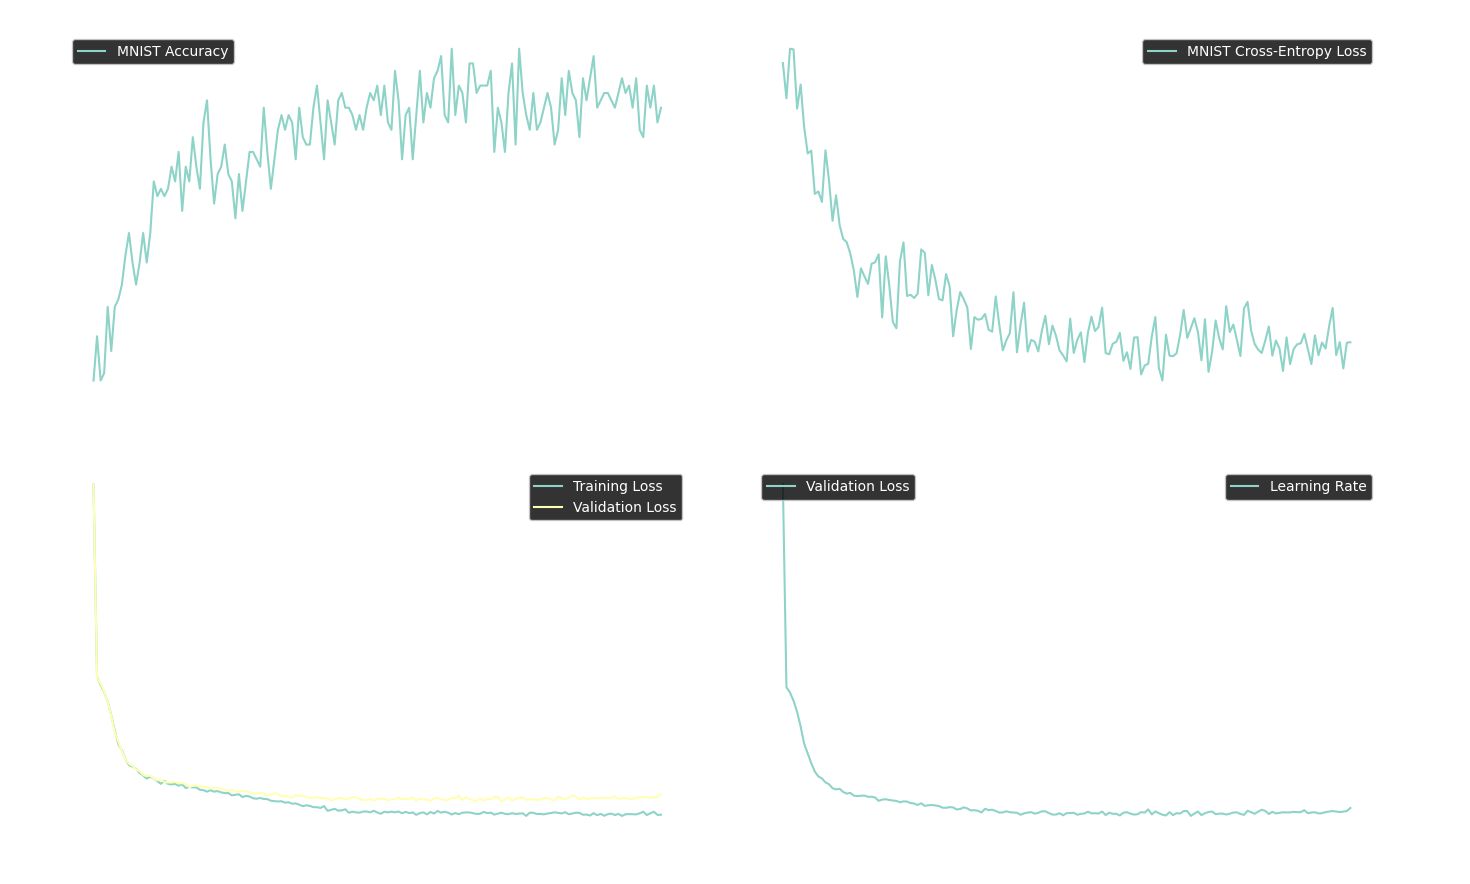
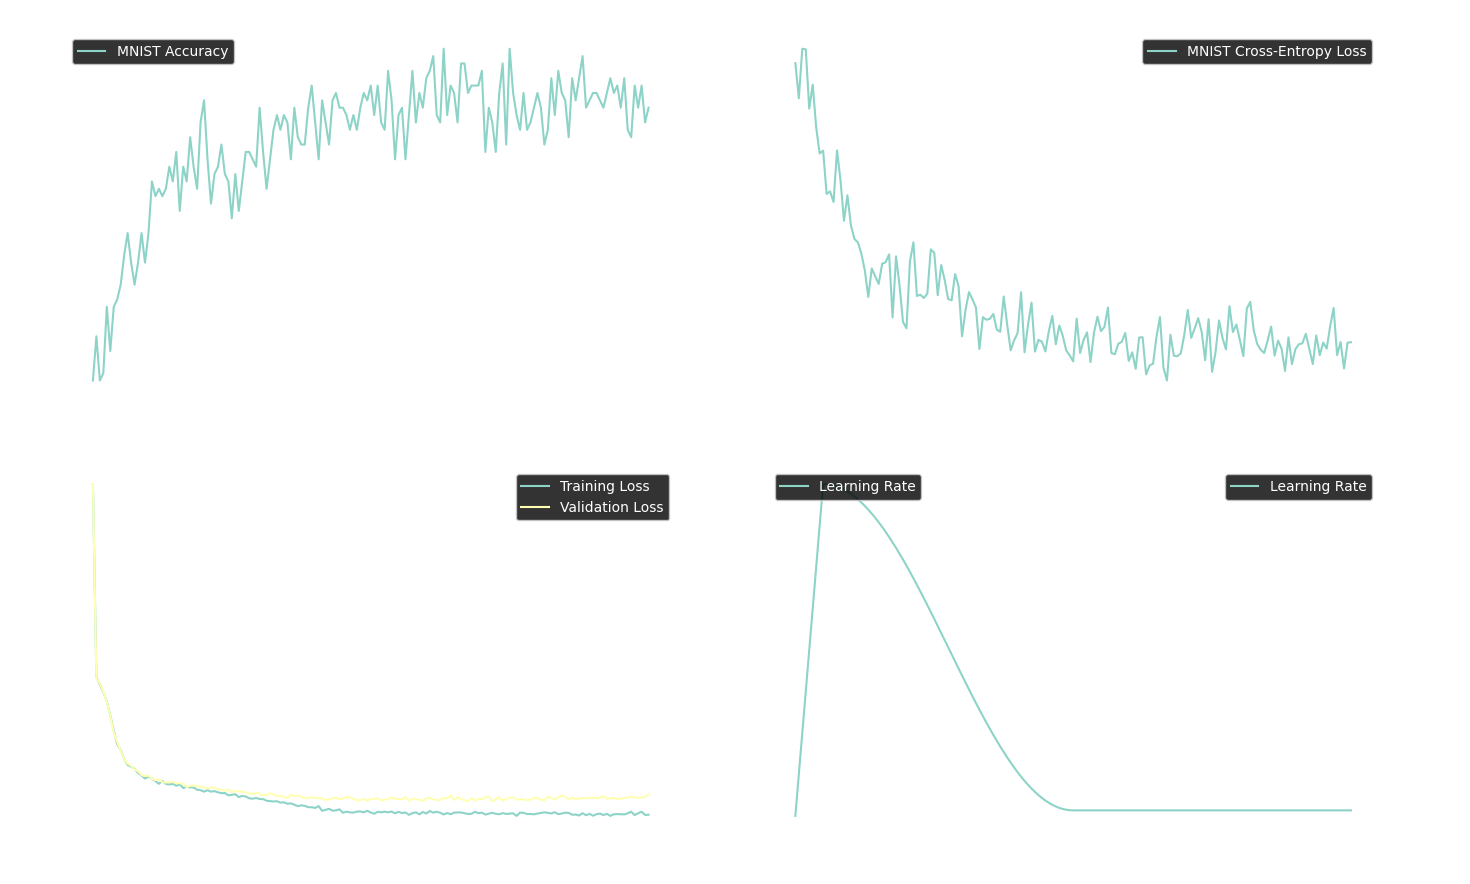
fixed create plot and added video of transformer inference

diff --git a/submissions/animation-factory/src/scenes/trial.tsx b/submissions/animation-factory/src/scenes/trial.tsx
@@ -2,8 +2,8 @@ import { makeScene2D, Txt, Line } from '@motion-canvas/2d';
 import { createRef, all, waitFor } from '@motion-canvas/core';
 import { Rect } from '@motion-canvas/2d/lib/components';
 
-const offset_x = -400;
-const offset_y = -800;
+const offset_x = -200;
+const offset_y = -700;
 
 const factor = 4
 
@@ -141,7 +141,7 @@ export default makeScene2D(function* (view) {
     view.add(
         <Txt
             ref={transformerText}
-            text="Transformer(θᵢ₋₁, θᵢ₋₂...θ₀, C, SOS)"
+            text="Transformer"
             fill="#ffffff"
             fontSize={factor*20}
             position={[3*token_box_grid + offset_x, 4*token_box_grid + offset_y - token_box_grid/1.5]}

diff --git a/create_plots.py b/create_plots.py
@@ -37,10 +37,10 @@ axs[1, 0].legend()
 
 # Plot Validation Loss and Learning Rate
 ax2 = axs[1, 1].twinx()
-axs[1, 1].plot(data['iter'][data['lr'].notna()], data['val/loss'][data['val/loss'].notna()], label='Validation Loss')
-axs[1, 1].set_title('Validation Loss and Learning Rate')
+axs[1, 1].plot(data['iter'][data['lr'].notna()], data['lr'][data['lr'].notna()], label='Learning Rate')
+axs[1, 1].set_title('Learning Rate')
 axs[1, 1].set_xlabel('Iterations')
-axs[1, 1].set_ylabel('Validation Loss')
+axs[1, 1].set_ylabel('Learning Rate')
 ax2.plot(data['iter'], data['lr'], label='Learning Rate')
 ax2.set_ylabel('Learning Rate')
 axs[1, 1].legend(loc='upper left')

diff --git a/submissions/presentation_2/slides.md b/submissions/presentation_2/slides.md
@@ -80,7 +80,7 @@ TODO: change Layout
 -->
 
 ---
-layout: two-cols-header
+layout: two-cols-default
 ---
 
 
@@ -109,6 +109,19 @@ Tokenization of weights using Vector Quantization
 
 TODO: add slide with training visualization and:
 
+
+-->
+
+---
+layout: two-cols-default
+---
+
+
+# Discretization
+Training of Vector Quantization
+
+::left::
+
 **Training**:
 1. Codebook elements randomly initialized
 2. Assign to the closest Codebook element
@@ -116,10 +129,15 @@ TODO: add slide with training visualization and:
 4. Assigned rarely used elements to weights
 5. goto 2.
 
--->
+::right::
+
+<div class="p-2 rounded-[8px] border border-[#212121] bg-[black] shadow-xl">
+<video class="w-80% mx-auto" src="/concatenated_images_animation.mp4" autoplay loop muted></video>
+</div>
+
 
 ---
-layout: two-cols-header
+layout: two-cols-default
 ---
 
 # Discretization
@@ -423,12 +441,16 @@ TODO: Fix Graph and double check graph to maje sure everything wor
 -->
 
 ---
-layout: two-cols-header
+layout: two-cols-default
 ---
 
 # Preliminary Results
 
 ::left::
+
+<div class="p-2 rounded-[8px] border border-[#212121] bg-[black] shadow-xl">
+<video src="/inference.mp4" autoplay loop muted></video>
+</div>
 
 ::right:: 
 
